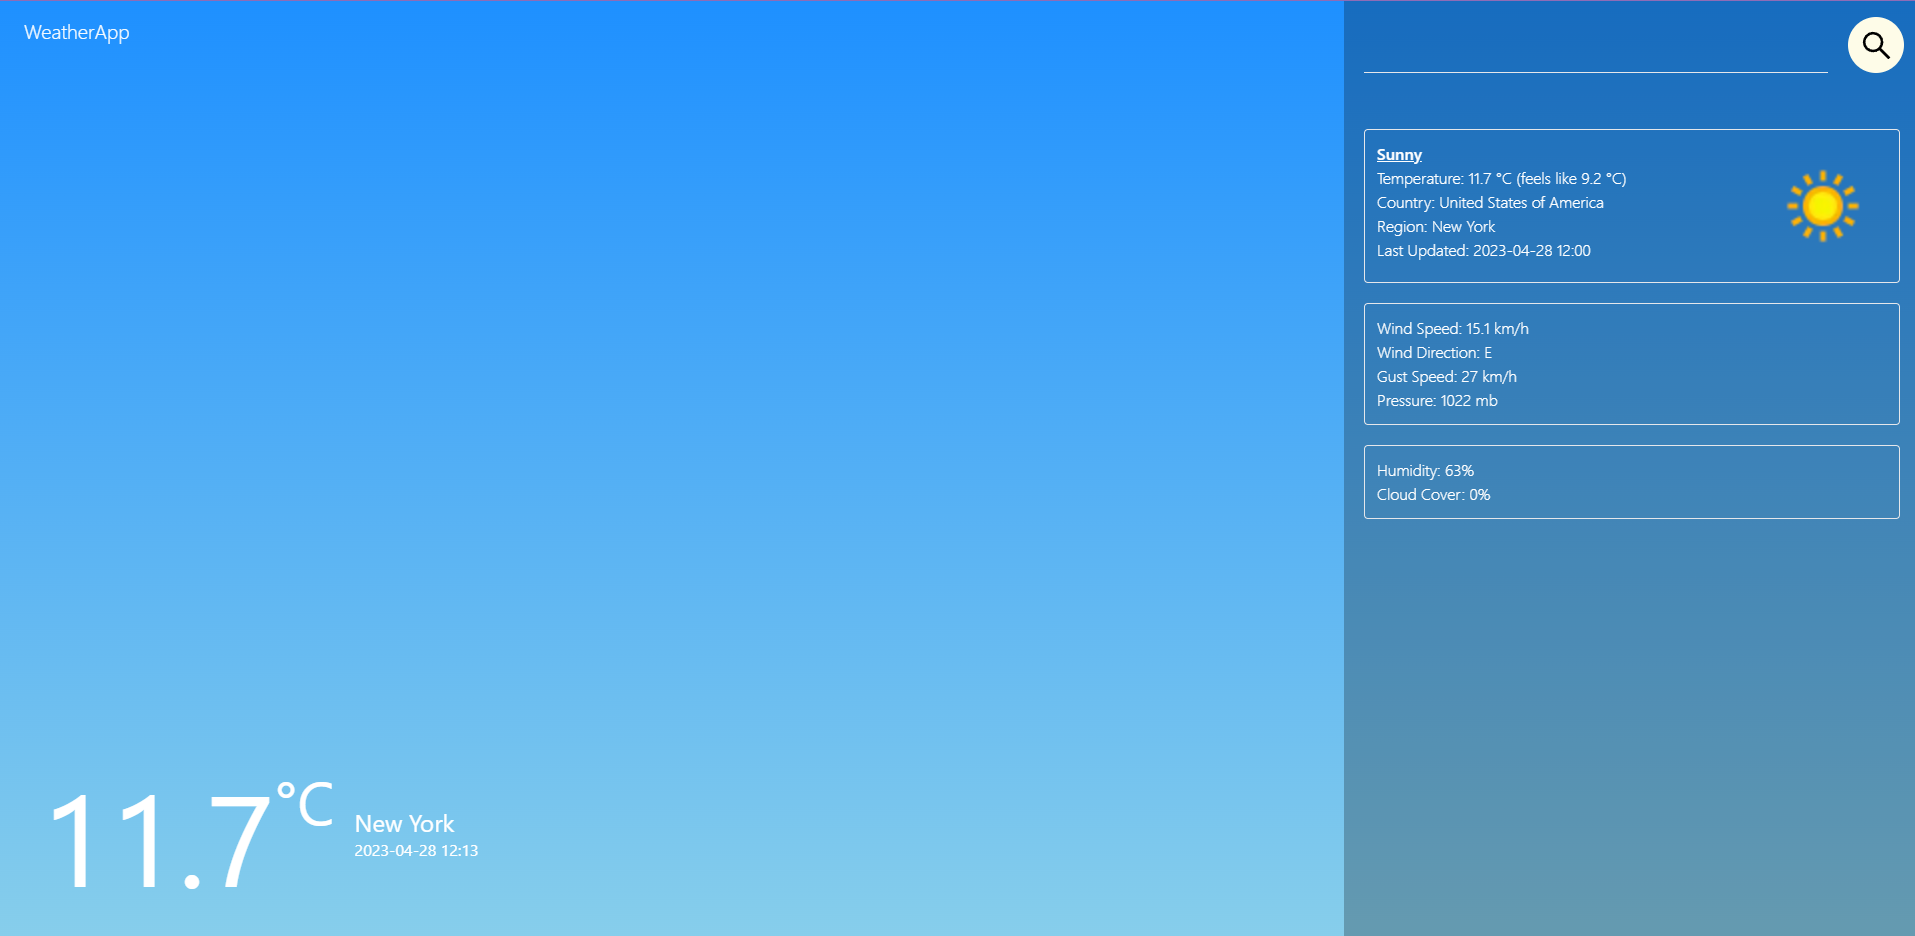
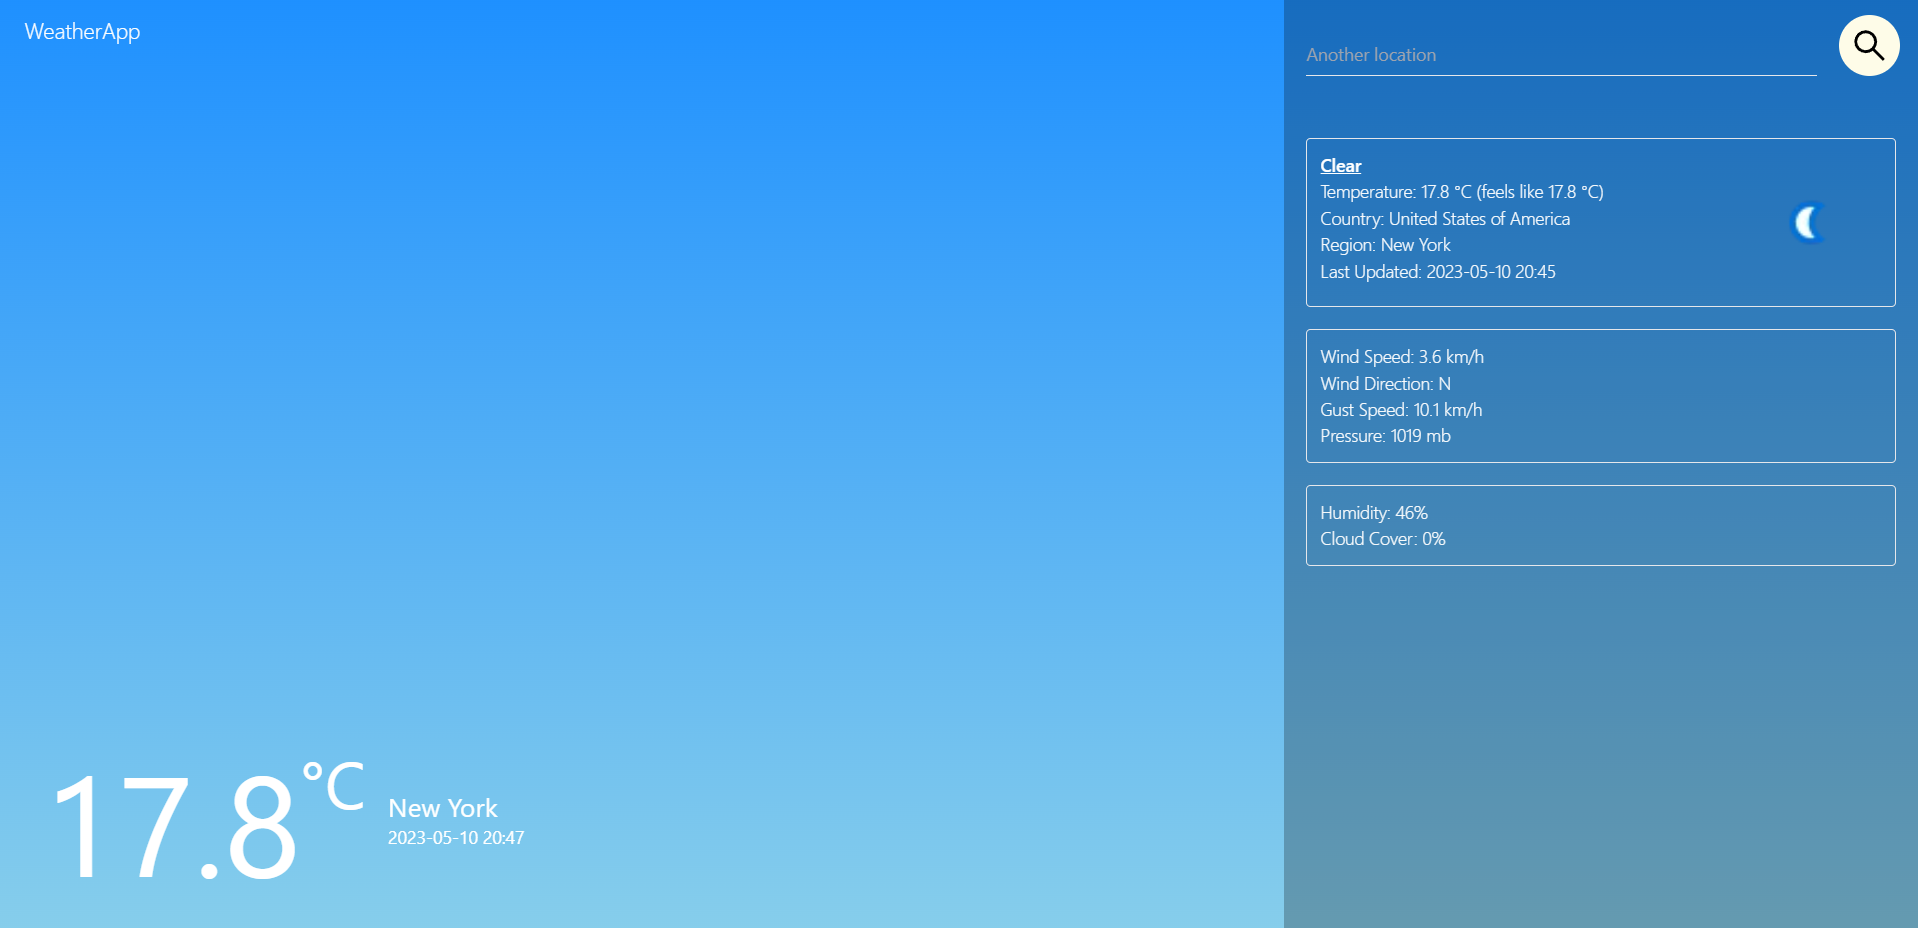
Update ReadMe

diff --git a/README.md b/README.md
@@ -1,3 +1,16 @@
 # Weather-App
+Welcome to my Weather App repository! This is a React and Tailwind CSS project that allows you to fetch and display weather information using the [WeatherAPI](https://www.weatherapi.com/) service.
+
+## Features
+* Retrieve weather data for a specific location using the WeatherAPI.
+* Display current weather conditions, including temperature, humidity, wind speed, weather icon, and cloud cover.
+* Search for different locations and update the weather information accordingly.
+
+## Technologies Used
+* React: A JavaScript library for building user interfaces.
+* Tailwind CSS: A CSS framework for rapid UI development.
+* WeatherAPI: An API service that provides weather data for various locations.
+
+## UI Screenshot
 
 ![](/WeatherApp.png)
